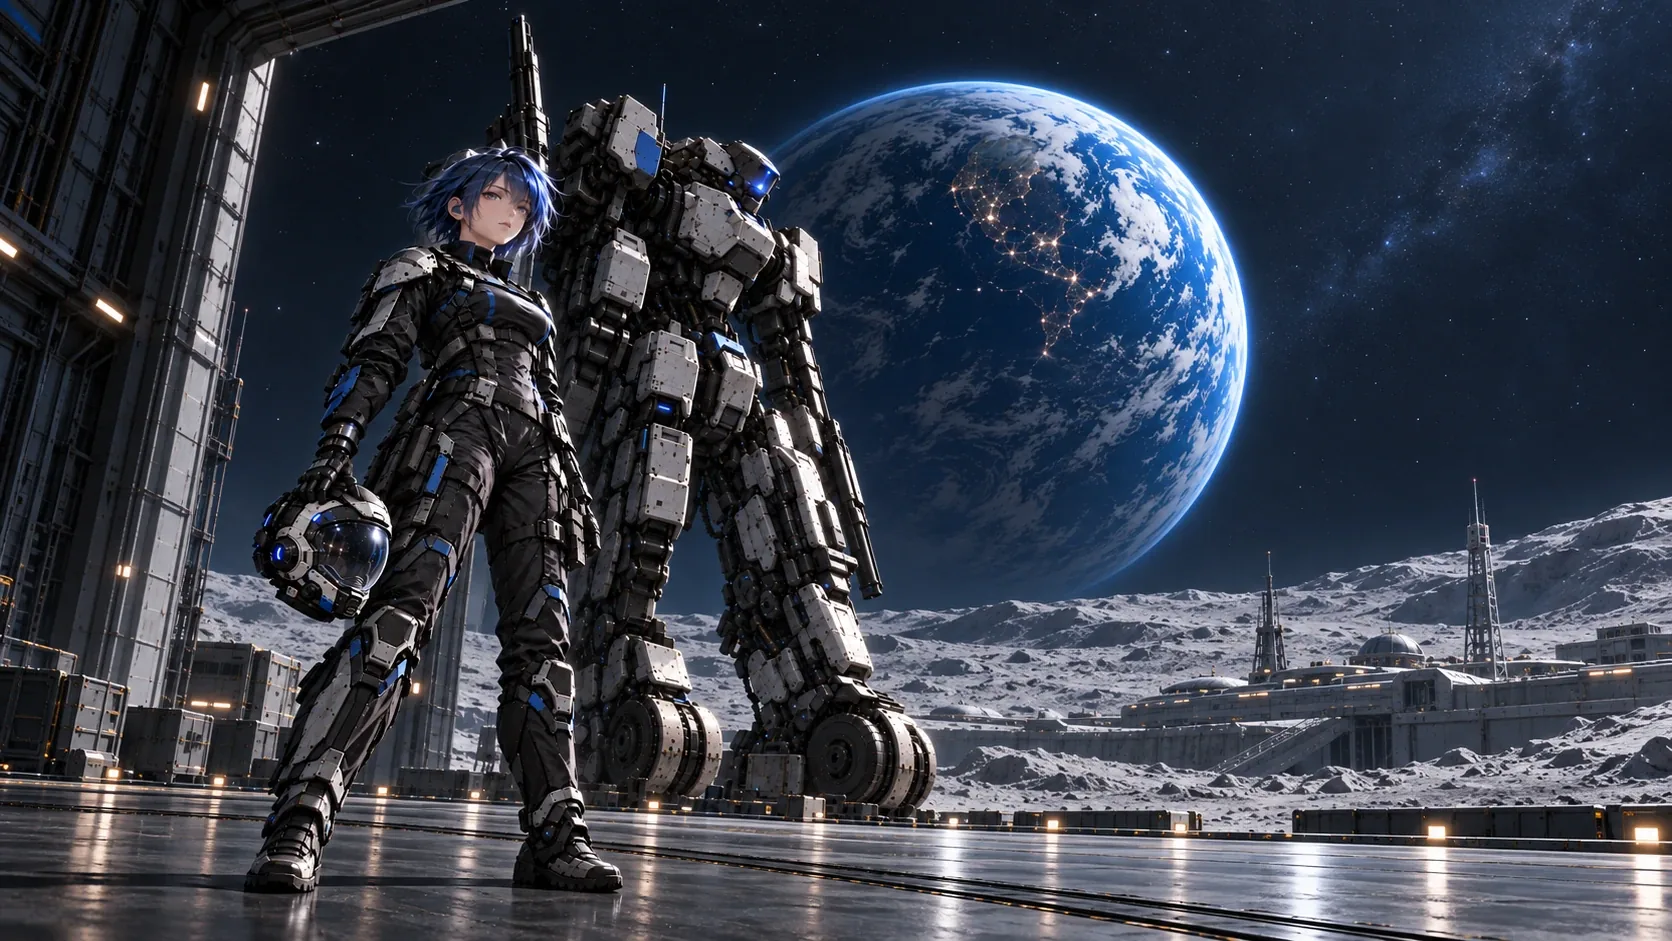
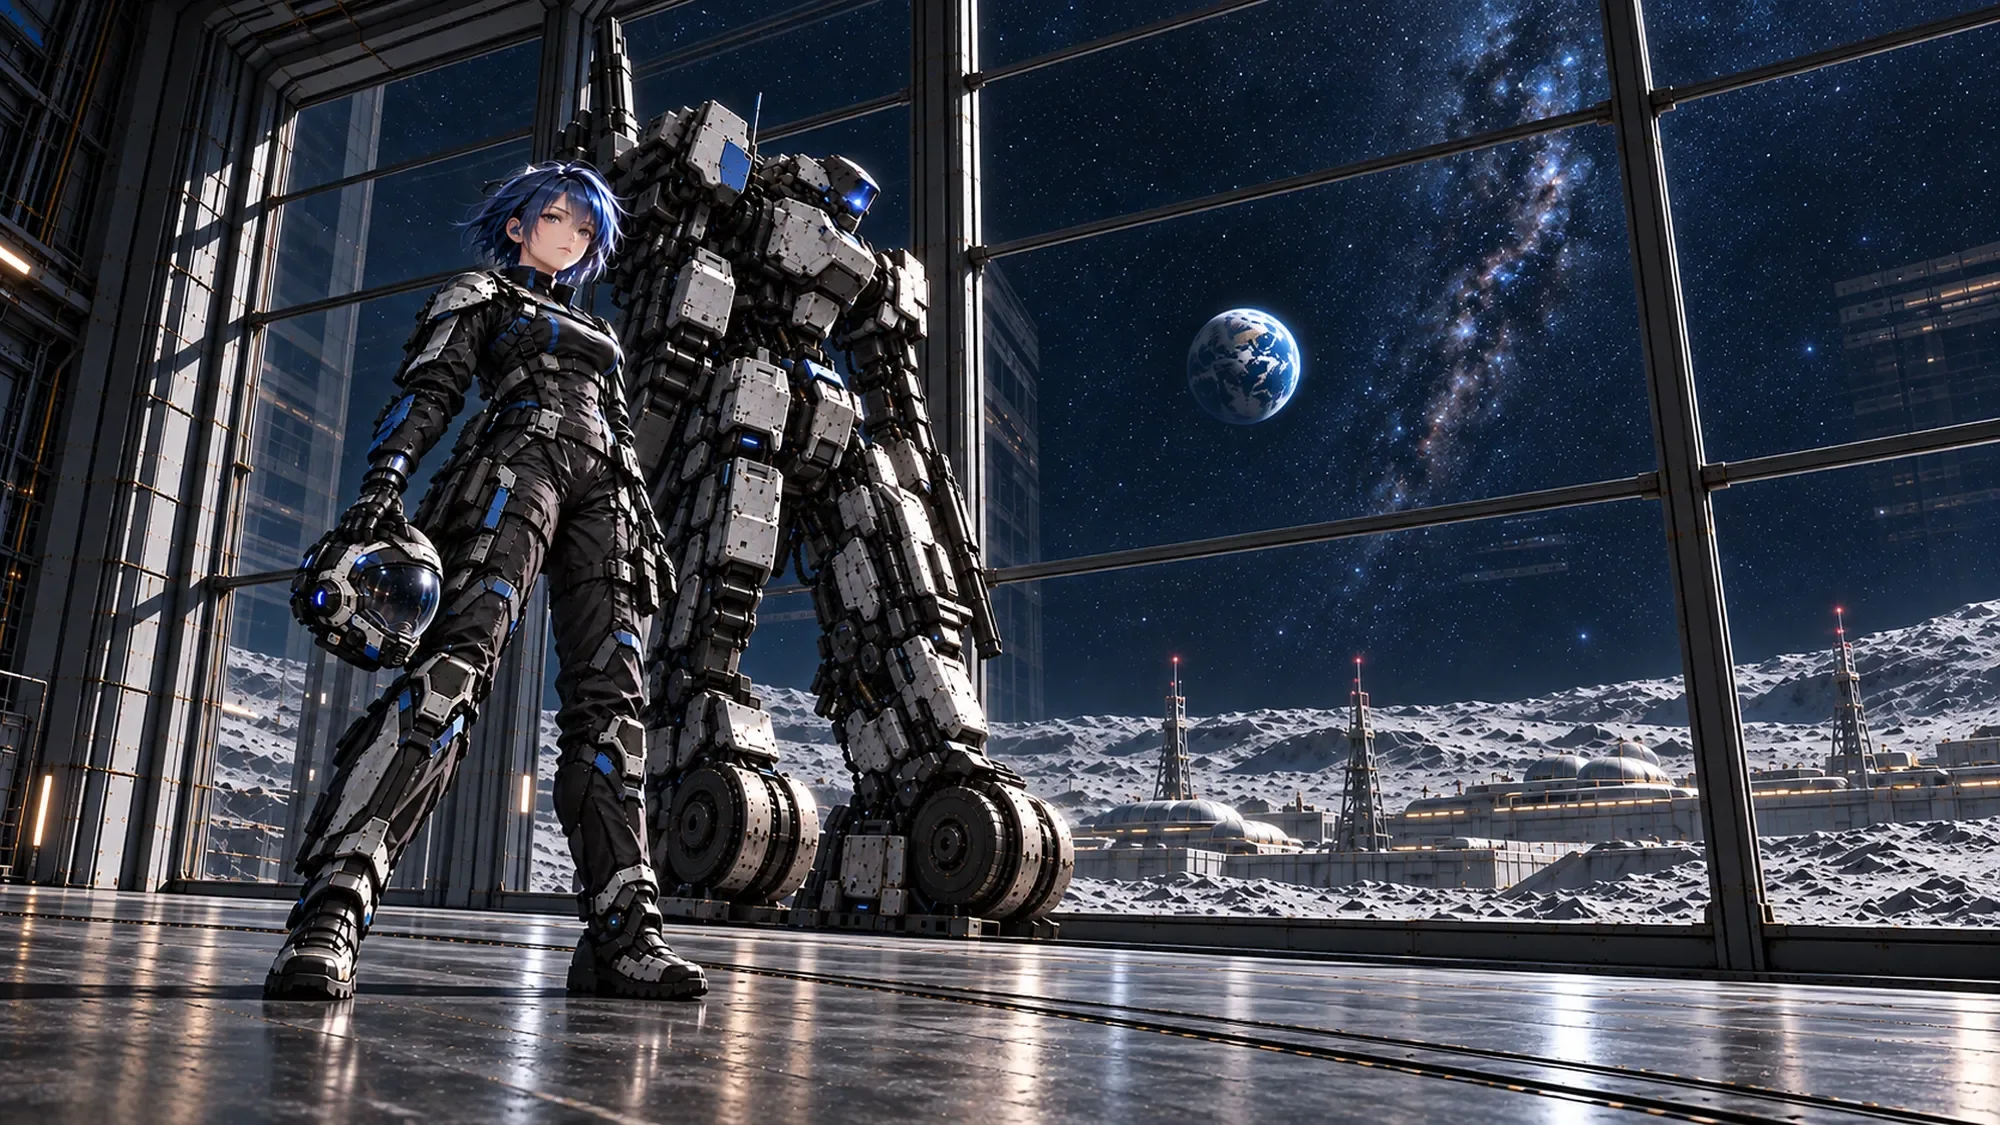
Bring in AOGANE's revised title art; the sectors band uses it too

diff --git a/public/aogane/play/styles.css b/public/aogane/play/styles.css
@@ -280,7 +280,7 @@
    設定 and open beside the list. The pause menu (ESC) uses the same layout over the live view. */
 @font-face{font-family:"AOGANE Title";src:url(assets/fonts/shippori-b1-800-title.woff2) format("woff2");font-weight:800;font-display:swap;unicode-range:U+84BC,U+9244}
 #cover{position:absolute;inset:0;overflow:hidden;background:#020808}
-#cover:before{content:"";position:absolute;left:max(26vw,calc(100vw - 100vh * 1672 / 941));top:0;height:100%;aspect-ratio:1672/941;background:url(assets/cover.webp) center/100% 100% no-repeat;filter:brightness(.82) saturate(.95);-webkit-mask-image:linear-gradient(to right,transparent 0,#000 14%);mask-image:linear-gradient(to right,transparent 0,#000 14%)}
+#cover:before{content:"";position:absolute;left:max(26vw,calc(100vw - 100vh * 2000 / 1125));top:0;height:100%;aspect-ratio:2000/1125;background:url(assets/cover.webp?v=2) center/100% 100% no-repeat;filter:brightness(.82) saturate(.95);-webkit-mask-image:linear-gradient(to right,transparent 0,#000 14%);mask-image:linear-gradient(to right,transparent 0,#000 14%)}
 #cover:after{content:"";position:absolute;inset:0;background:linear-gradient(to right,rgba(2,6,8,.96) 0,rgba(2,6,8,.85) 22%,rgba(2,6,8,0) 44%),linear-gradient(to top,rgba(2,6,8,.8) 0,rgba(2,6,8,0) 18%)}
 .boot,.boot.started{left:clamp(32px,7vw,140px);right:auto;top:0;bottom:0;transform:none;width:min(420px,calc(100% - 64px));padding:0;display:flex;flex-direction:column;justify-content:center}
 .boot:after{display:none}

diff --git a/app/aogane/aogane.css b/app/aogane/aogane.css
@@ -121,7 +121,7 @@
   radial-gradient(60% 60% at 100% 100%,rgba(194,123,255,.08),transparent 70%),#0d0709}
 .hfBand-sectors{--wm:rgba(255,255,255,.07);background:
   linear-gradient(90deg,#05090a 0%,rgba(5,9,10,.94) 45%,rgba(5,9,10,.55) 100%),
-  url(/aogane/play/assets/cover.webp) right center/cover no-repeat,#05090a}
+  url(/aogane/play/assets/cover.webp?v=2) right center/cover no-repeat,#05090a}
 .hfBand .hfEntries div{background:linear-gradient(135deg,rgba(5,9,10,.72),rgba(5,9,10,.5));backdrop-filter:blur(2px)}
 .hfBand .hfSteps li{background:rgba(5,9,10,.6)}
 
